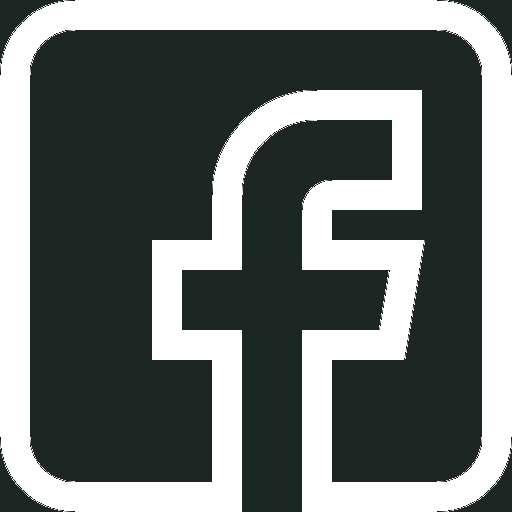
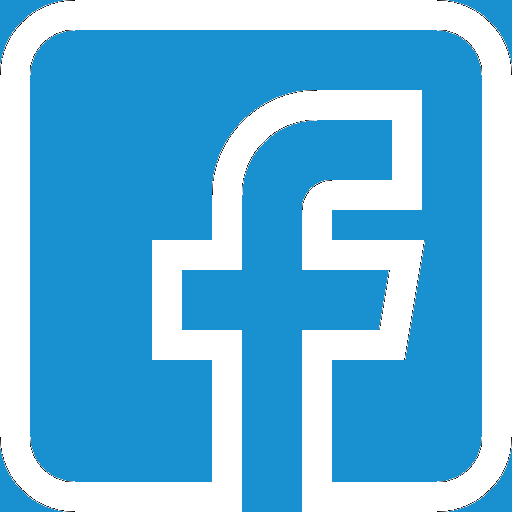
Triying a new push

diff --git a/public/css/estiloFinal.css b/public/css/estiloFinal.css
@@ -127,7 +127,7 @@ border-bottom-left-radius:0px ;
 }
 footer{
     padding: 10px;
-    background-color: rgb(27, 38, 44);
+    background-color: rgb(25, 145, 209);
     bottom: -300px;
     color: white;
 }
@@ -246,10 +246,6 @@ li{
 }
 #profileHeader{
     background-color:  #46a9eb;
-}
-
-#profileMain{
-    background-color: #bbe1fa;
 }
 .btn-primary{
     background-color: #46a9eb;

diff --git a/resources/views/userManagement.blade.php b/resources/views/userManagement.blade.php
@@ -1,39 +1,40 @@
 <x-app-layout>
     <link rel="stylesheet" href="https://unpkg.com/leaflet@1.7.1/dist/leaflet.css" integrity="sha512-xodZBNTC5n17Xt2atTPuE1HxjVMSvLVW9ocqUKLsCC5CXdbqCmblAshOMAS6/keqq/sMZMZ19scR4PsZChSR7A==" crossorigin=""/>
-
-    <div id="userContainer" class="container-fluid">
-        <h2 class="col-12 text-center">{{trans('messages.users')}}</h2>
-        <hr>
-        <form name="searchForm" id="searchForm" class="col-12 col-md-5 col-lg-2 d-flex justify-content-center" action="GET">
-            @csrf
-            <input id="searchParam" class="form-control mr-1" type="text">
-            <input type="button" class="btn btn-primary" id="searchButton" value="{{trans('messages.search')}}">
-        </form>
-        <hr>
-        <section class="col-md-4 justify-items-start">
-            @foreach($users as $user)
-                @if($user->id != Auth::id())
-                    <div class="row d-flex justify-items-center align-items-center">
-                        <div class="col-md-3 d-flex justify-content-center">
-                            <img src="../storage/{{$user->img}}" class="rounded-circle" style="width: 50px; height: 50px" alt="">
+    <div class="p-5 bg-dark" style="height: 100vh;">
+        <div id="userContainer" class="container-fluid bg-white rounded p-3" style="height: 85vh;">
+            <h2 class="col-12 text-center">{{trans('messages.users')}}</h2>
+            <hr>
+            <form name="searchForm" id="searchForm" class="col-12 col-md-5 col-lg-2 d-flex justify-content-center" action="GET">
+                @csrf
+                <input id="searchParam" class="form-control mr-1" type="text">
+                <input type="button" class="btn btn-primary" id="searchButton" value="{{trans('messages.search')}}">
+            </form>
+            <hr>
+            <section class="col-md-4 justify-items-start">
+                @foreach($users as $user)
+                    @if($user->id != Auth::id())
+                        <div class="row d-flex justify-items-center align-items-center">
+                            <div class="col-md-3 d-flex justify-content-center">
+                                <img src="../storage/{{$user->img}}" class="rounded-circle" style="width: 50px; height: 50px" alt="">
+                            </div>
+                            <span class="col-md-4" type="text">{{$user->name}}</span>
+                            @if ($user->deleted_at === null)
+                                <form class="col-md-5" action="/deleteUser/{{$user->id}}" method="post">
+                                    @method('delete')
+                                    @csrf
+                                    <input class="col-md-12 btn btn-primary" type="submit" value='ACTIVE'>
+                                </form>
+                            @else
+                                <form class="col-md-5" action="/restoreUser/{{$user->id}}" method="POST">
+                                    @csrf
+                                    <input class="col-md-12 btn btn-danger" type="submit" value='DEACTIVATED'>
+                                </form>
+                            @endif
                         </div>
-                        <span class="col-md-4" type="text">{{$user->name}}</span>
-                        @if ($user->deleted_at === null)
-                            <form class="col-md-5" action="/deleteUser/{{$user->id}}" method="post">
-                                @method('delete')
-                                @csrf
-                                <input class="col-md-12 btn btn-primary" type="submit" value='ACTIVE'>
-                            </form>
-                        @else
-                            <form class="col-md-5" action="/restoreUser/{{$user->id}}" method="POST">
-                                @csrf
-                                <input class="col-md-12 btn btn-danger" type="submit" value='DEACTIVATED'>
-                            </form>
-                        @endif
-                    </div>
-                @endif
-            @endforeach
-        </section>
+                    @endif
+                @endforeach
+            </section>
+        </div>
     </div>
     <script>
         $(document).ready(init);

diff --git a/resources/views/ourProfile/profile.blade.php b/resources/views/ourProfile/profile.blade.php
@@ -1,14 +1,11 @@
 @extends('layouts.profile')
 @section('profileContent')
 <main class="container-fluid">
-    <div class="row align-items-center border-bottom">
+    <div class="row align-items-center border-bottom p-5">
         <section class="col-12 col-md-3">
             <div class="row ">
                 <div class="col-12 d-flex justify-content-center">
                     <img style="width: 200px; height: 200px" class="rounded-circle" src="../storage/{{$user->img}}" alt="{{$user->img}}" >
-                </div>
-                <div class="col-12 d-flex justify-content-center">
-                    <a class="" href="">{{trans('messages.changeProfileImg')}}</a>
                 </div>
             </div>
         </section>
@@ -22,10 +19,10 @@
             <a class="row justify-content-center" href="/followers">{{trans('messages.followeds')}}</a>
         </section>
         </section>
-        <p class="col-12 bio">{{$user->bio}}</p>
-    </nav>
+        <p class="col-12 m-5 bio">{{$user->bio}}</p>
+    </div>
     <h2 class="col-12 text-center">{{trans('messages.projects')}}</h2>
-    <div id="projects" class="col-12 d-flex justify-content-around row"></div>
+    <div id="projects" class="col-12 d-flex justify-content-around row p-3"></div>
     <div class="modal fade" tabindex="-1" id="deleteModal" role="dialog">
         <div class="modal-dialog" role="document">
             <div class="modal-content">

diff --git a/resources/views/layouts/footer.blade.php b/resources/views/layouts/footer.blade.php
@@ -5,16 +5,16 @@
               <div class="col-md-5 col-lg-4 col-xl-3 mx-auto mb-4">
                 <h3 class="text-uppercase font-weight-bold text-center">The ClipClub</h3>
                 <div class="d-flex justify-content-around">
-                <img class="logo" src="img/twitter.png" alt="twitter">
-                <img class="logo" src="img/facebook.png" alt="facebook">
-                <img class="logo" src="img/instagram.png" alt="instagram">
-                <img class="logo" src="img/tik-tok.png" alt="tik-tok">
+                <img class="logo" src="{{asset('img/twitter.png')}}" alt="twitter">
+                <img class="logo" src="{{asset('img/facebook.png')}}" alt="facebook">
+                <img class="logo" src="{{asset('img/instagram.png')}}" alt="instagram">
+                <img class="logo" src="{{asset('img/tik-tok.png')}}" alt="tik-tok">
                 </div>
                 <hr class="deep-purple accent-2 mb-4 mt-0 d-inline-block mx-auto" style="width: 60px;">
                 <p class="text-center">
                 {{trans('messages.footerText')}}
                 </p>
-            
+
               </div>
               <div class="col-md-5 col-lg-2 col-xl-2 mx-auto mb-4 text-center"">
                 <h3 class="text-uppercase font-weight-bold">{{trans('messages.footerTitle1')}}</h3>

diff --git a/resources/views/navigation-dropdown.blade.php b/resources/views/navigation-dropdown.blade.php
@@ -12,11 +12,6 @@
                 </div>
 
                 <!-- Navigation Links -->
-                <div class="hidden space-x-8 sm:-my-px sm:ml-10 sm:flex">
-                    <x-jet-nav-link href="{{ route('dashboard') }}" :active="request()->routeIs('dashboard')">
-                        {{ __(trans('messages.home')) }}
-                    </x-jet-nav-link>
-                </div>
                 @can('User')
                 <div class="hidden space-x-8 sm:-my-px sm:ml-10 sm:flex">
                     <x-jet-nav-link href="{{ route('profile') }}" :active="request()->routeIs('profile')">
@@ -158,11 +153,6 @@
     <!-- Responsive Navigation Menu -->
     <div :class="{'block': open, 'hidden': ! open}" class="hidden sm:hidden">
         <div class="pt-2 pb-3 space-y-1">
-            <div class="pt-2 pb-3 space-y-1">
-                <x-jet-responsive-nav-link href="{{ route('dashboard') }}" :active="request()->routeIs('dashboard')">
-                    {{ __(trans('messages.home')) }}
-                </x-jet-responsive-nav-link>
-            </div>
             @can('User')
             <div class="pt-2 pb-3 space-y-1">
                 <x-jet-responsive-nav-link href="{{ route('profile') }}" :active="request()->routeIs('profile')">

diff --git a/resources/views/myProjects.blade.php b/resources/views/myProjects.blade.php
@@ -1,7 +1,7 @@
 <x-app-layout>
     <link rel="stylesheet" href="https://unpkg.com/leaflet@1.7.1/dist/leaflet.css" integrity="sha512-xodZBNTC5n17Xt2atTPuE1HxjVMSvLVW9ocqUKLsCC5CXdbqCmblAshOMAS6/keqq/sMZMZ19scR4PsZChSR7A==" crossorigin=""/>
 
-    <div id="ProjectContainer" class="d-flex justify-content-around row">
+    <div id="ProjectContainer" class="d-flex justify-content-around row p-3">
         @foreach($projects as $project)
         <div id="project" class="bg-white border border-secondary col-5  mt-2 p-2 rounded">
             <form action="{{route('delete_project', $project->id)}}" method="post" name="project">

diff --git a/resources/views/layouts/app.blade.php b/resources/views/layouts/app.blade.php
@@ -28,17 +28,14 @@
             @livewire('navigation-dropdown')
 
             <!-- Page Heading -->
-            <header id="profileHeader"  class="header">
-                <div class="max-w-7xl mx-auto py-6 px-4 sm:px-6 lg:px-8">
-
-                </div>
-            </header>
 
             <!-- Page Content -->
             <main>
                 {{ $slot }}
             </main>
         </div>
+
+        @include('layouts.footer')
 
         @stack('modals')
 

diff --git a/resources/views/profile/show.blade.php b/resources/views/profile/show.blade.php
@@ -6,7 +6,7 @@
         </h2>
     </x-slot>
 <body>
-    
+
 
     <div>
         <div id="profileMain" class="max-w-7xl mx-auto py-10 sm:px-6 lg:px-8">
@@ -43,8 +43,5 @@
             </div>
         </div>
     </div>
-
-    @include('layouts.footer')
- 
     </body>
 </x-app-layout>

diff --git a/app/Http/Controllers/UserController.php b/app/Http/Controllers/UserController.php
@@ -42,9 +42,7 @@ class UserController extends Controller {
     }
 
     public function deleteUser($userId){
-        //dd($userId);
         $user = User::find($userId);
-        //$user->projects()->delete();
         $user->delete();
         return back();
     }

diff --git a/routes/web.php b/routes/web.php
@@ -22,7 +22,7 @@ use App\Http\Controllers\UserController;
 }); */
 
 Route::middleware(['auth:sanctum', 'verified'])->get('/dashboard', function () {
-    return view('dashboard');
+    return redirect('/profile');
 })->name('dashboard');
 
 

diff --git a/resources/lang/en/profile.php b/resources/lang/en/profile.php
@@ -1,0 +1,8 @@
+<?php
+return[
+    //header
+
+    'followers'=>'Followers',
+    'followed'=>'Followed'
+];
+?>

diff --git a/resources/views/layouts/profile.blade.php b/resources/views/layouts/profile.blade.php
@@ -10,7 +10,5 @@
     @section('profileContent')
 
     @show
-
-@include('layouts.footer')
 </body>
 </html>
